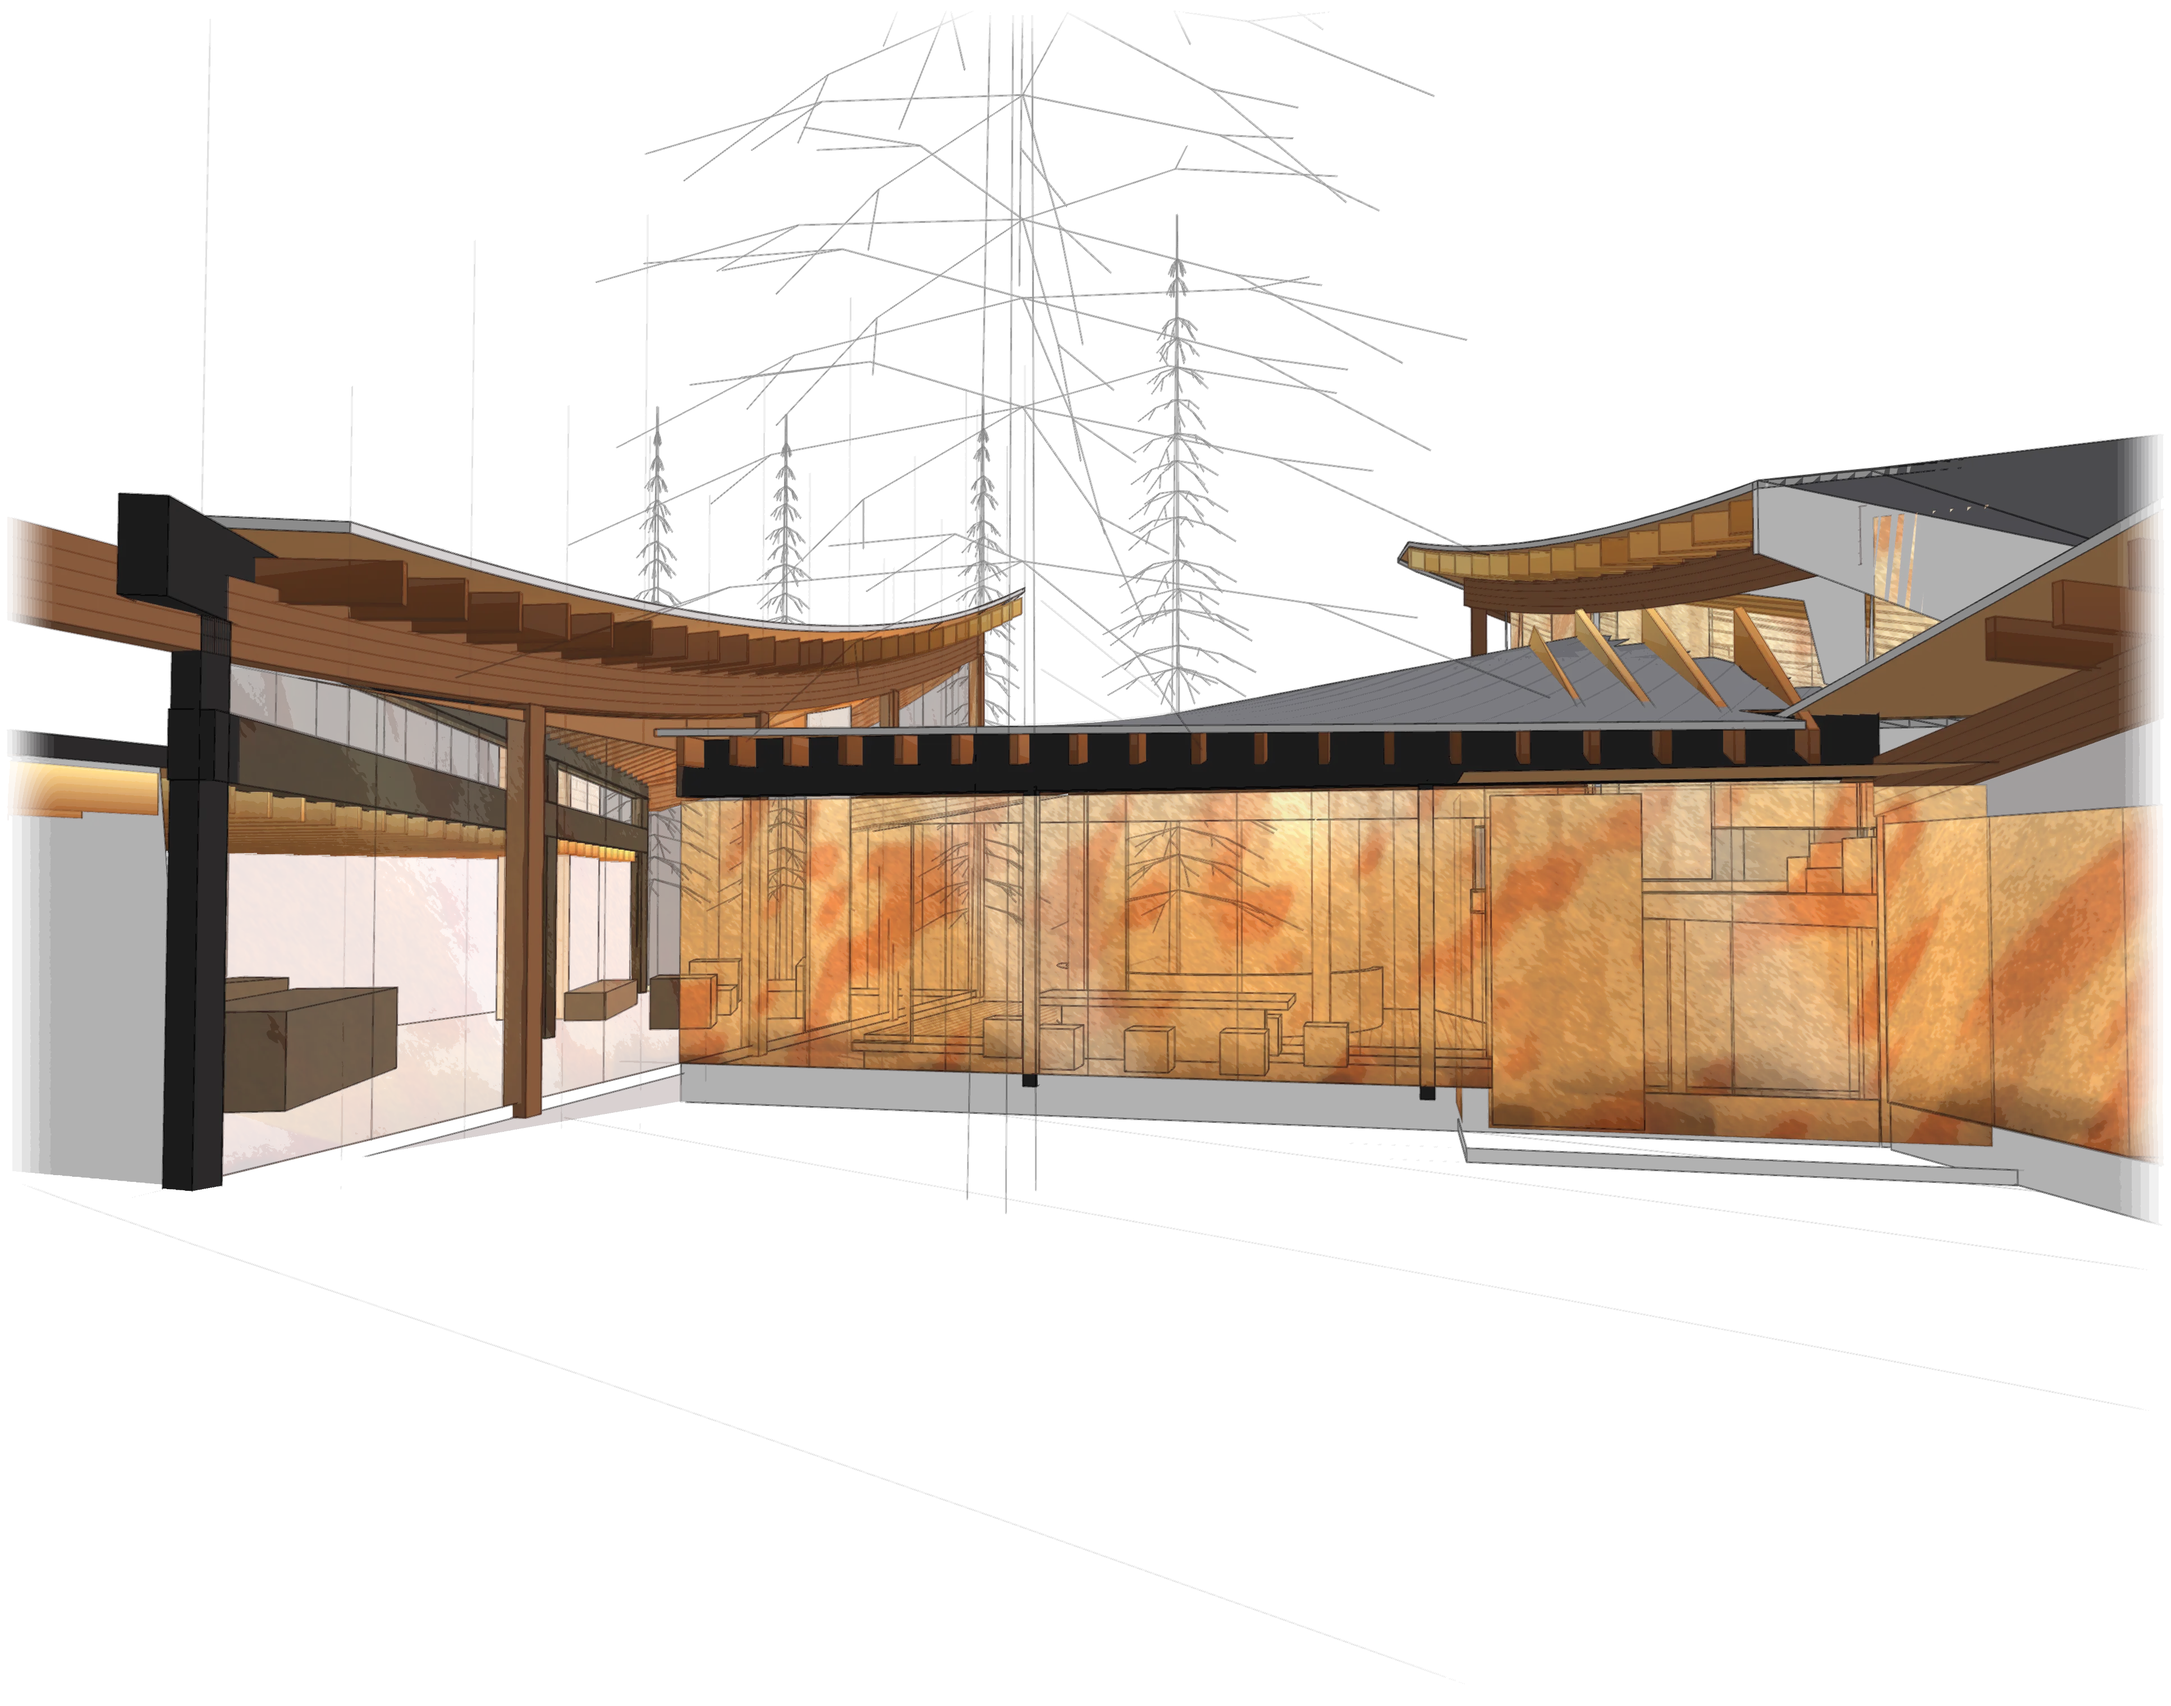
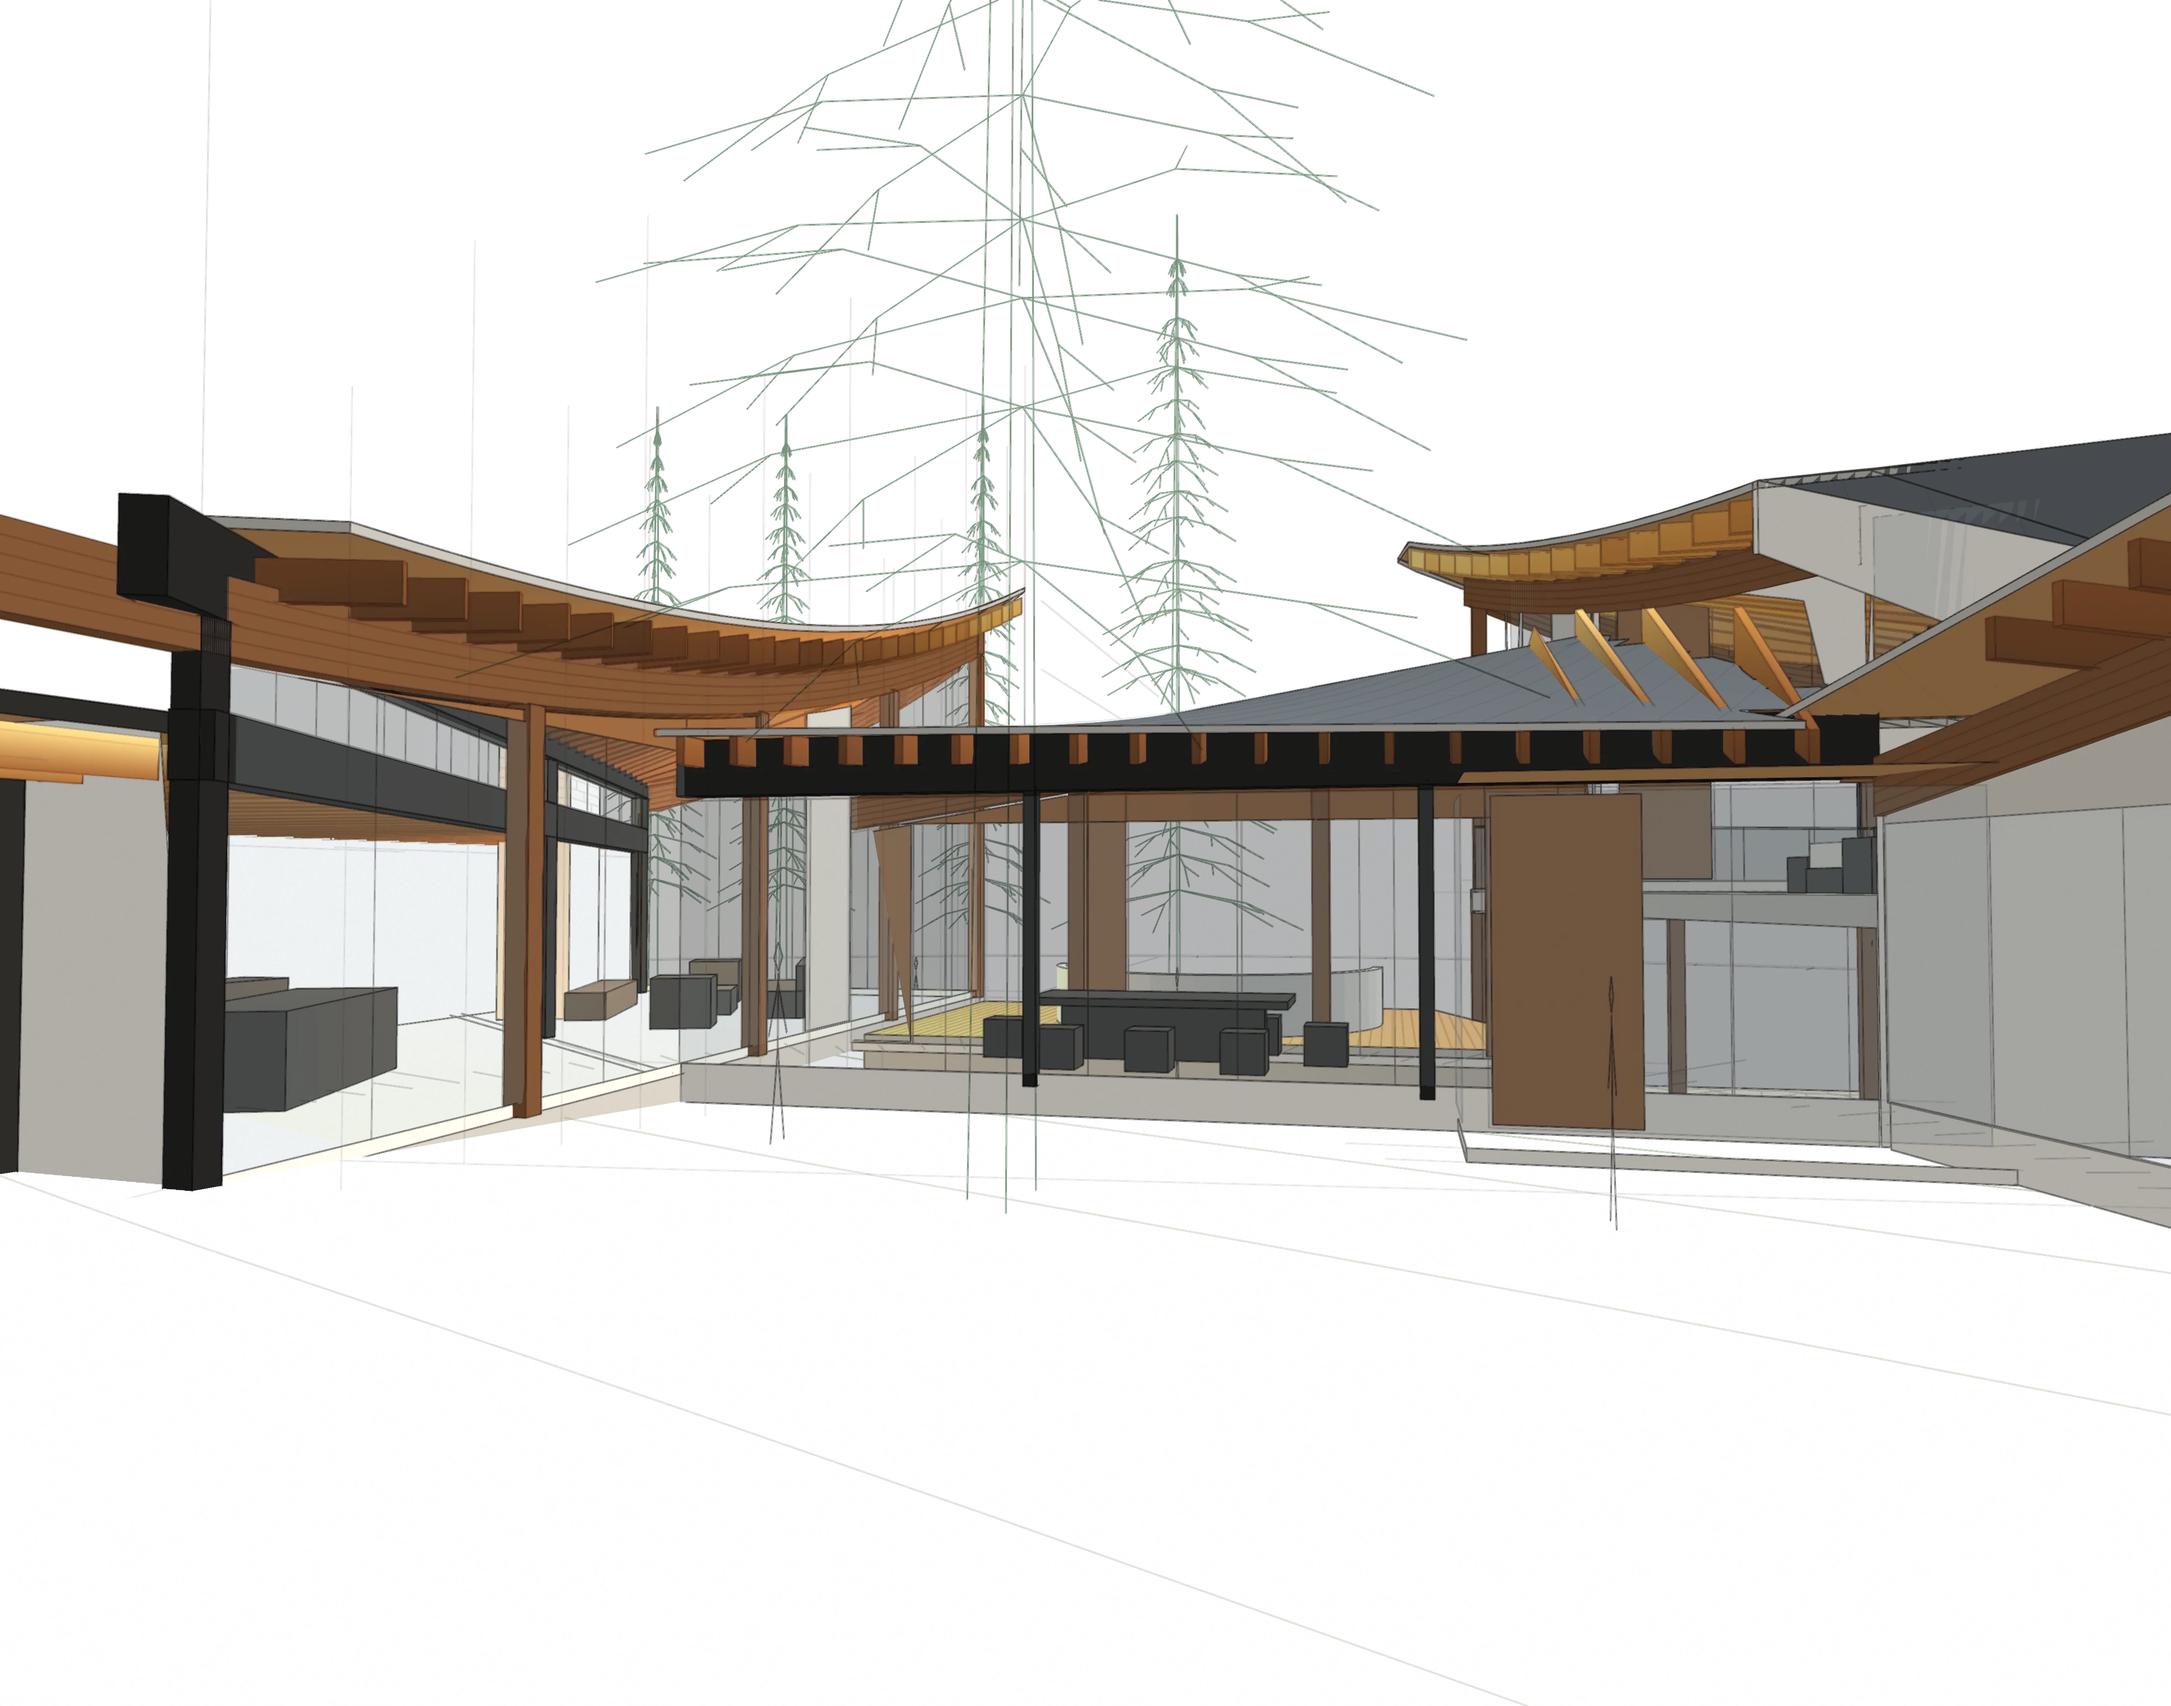
Walsh Living Set: wax play button turns the sheets; A9.1 perspectives re-cut with clear glass
The red wax play button sits dead center: one press, one sheet, back to the cover after the
last. It melts away during the turn, comes back slowly, then rests faint so the drawing reads.
A9.1 stills re-rendered from today's pocket model with clear glass in place of the warm orange,
same cameras, so every hand note stays on its mark.

Claude-Session: https://claude.ai/code/session_018fWHtKfnvee6yxDPBpw8tw

diff --git a/walsh/set/v2.html b/walsh/set/v2.html
@@ -546,6 +546,37 @@ button:focus-visible,a:focus-visible,[tabindex]:focus-visible{outline:1px solid 
   <span class="sep"></span>
   <button id="print">Print</button>
 </nav>
+<button type="button" class="waxplay idle" id="wplay" aria-label="Next sheet">
+  <svg viewBox="-50 -50 100 100" aria-hidden="true">
+    <defs>
+      <radialGradient id="wpA" cx="36%" cy="30%" r="78%"><stop offset="0" stop-color="#d9493a"/><stop offset=".5" stop-color="#ad261d"/><stop offset="1" stop-color="#6c110d"/></radialGradient>
+      <radialGradient id="wpB" cx="62%" cy="68%" r="72%"><stop offset="0" stop-color="#b82d22"/><stop offset="1" stop-color="#8c1b14"/></radialGradient>
+      <filter id="wpF" x="-30%" y="-30%" width="160%" height="160%"><feDropShadow dx="0" dy="2.6" stdDeviation="2.4" flood-color="#3c0a06" flood-opacity=".38"/></filter>
+    </defs>
+    <g id="wpWax"><path id="wpBlob" fill="url(#wpA)" filter="url(#wpF)" d="M44 0 A44 44 0 1 1 43.99 -0.5 Z"/></g>
+    <circle r="30" fill="url(#wpB)"/>
+    <circle r="30" fill="none" stroke="#56100b" stroke-opacity=".6" stroke-width="1.7"/>
+    <circle r="31.6" fill="none" stroke="#f08a76" stroke-opacity=".38" stroke-width=".9"/>
+    <path d="M-8 -13.5 L14.5 0 L-8 13.5 Z" transform="translate(1.1 1.2)" fill="#f19a86" fill-opacity=".5" stroke="#f19a86" stroke-opacity=".5" stroke-width="2.4" stroke-linejoin="round"/>
+    <path d="M-8 -13.5 L14.5 0 L-8 13.5 Z" fill="#6d130e" stroke="#6d130e" stroke-width="2.4" stroke-linejoin="round"/>
+    <ellipse cx="-15" cy="-24" rx="15" ry="5.5" fill="#fff" opacity=".2" transform="rotate(-28 -15 -24)"/>
+  </svg>
+</button>
+<style>
+/* the wax play button (André 10/1/26): dead center, turns to the next sheet; it melts away during the turn, comes back
+   slowly, then rests faint so the drawing reads, and wakes when the pointer moves */
+.waxplay{position:fixed;z-index:60;left:50%;top:50%;width:96px;height:96px;margin:-48px 0 0 -48px;appearance:none;border:0;background:none;padding:0;cursor:pointer;border-radius:50%;-webkit-tap-highlight-color:transparent;touch-action:manipulation;transition:opacity 1.8s ease,transform 1.8s cubic-bezier(.2,.9,.3,1)}
+.waxplay svg{width:100%;height:100%;display:block;overflow:visible;transform-origin:50% 50%}
+.waxplay.gone{opacity:0;transform:scale(.8);pointer-events:none;transition:opacity .35s ease,transform .35s ease}
+.waxplay.rest{opacity:.2;transition:opacity 1.4s ease}
+.waxplay.rest:hover,.waxplay.rest:focus-visible{opacity:1;transition:opacity .25s ease}
+.waxplay.idle svg{animation:wpBreathe 2.8s ease-in-out infinite}
+.waxplay:focus-visible{outline:1.5px solid #1b1a18;outline-offset:4px}
+@keyframes wpBreathe{0%,100%{transform:scale(1)}50%{transform:scale(1.05)}}
+body:has(#drawer.show) .waxplay{display:none}
+@media print{.waxplay{display:none!important}}
+@media (prefers-reduced-motion:reduce){.waxplay.idle svg{animation:none}}
+</style>
 <div class="strip" id="strip">
   <img id="smark" alt="André Mandel" width="236" height="300">
   <div class="sx">
@@ -562,7 +593,7 @@ button:focus-visible,a:focus-visible,[tabindex]:focus-visible{outline:1px solid 
 <script>window.LIVING_SHEETS = []; window.LIVING_OVERLAYS = [];</script>
 <script src="draw/shared.js"></script>
 <script src="sheets/cover-a.js"></script>
-<script src="sheets/cover-b.js"></script>
+<script src="sheets/cover-b.js?v=261001"></script>
 <script src="sheets/reg-a.js"></script>
 <script src="sheets/reg-b.js"></script>
 <script src="sheets/plans-a.js"></script>
@@ -1600,6 +1631,31 @@ document.addEventListener('keydown', e => {
   else if (k === 'ArrowLeft' || k === 'PageUp') { go(cur - 1, -1); e.preventDefault(); }
   else if (k === 'Home') go(0); else if (k === 'End') go(N - 1);
 });
+/* the wax play button: one press, one sheet; after the last sheet it goes back to the cover */
+(function () {
+  const b = $('#wplay'); if (!b) return;
+  let s = 235; const R = () => (s = s * 16807 % 2147483647, (s - 1) / 2147483646), ph = [R() * 6, R() * 6, R() * 6], pts = [];
+  for (let k = 0; k < 72; k++) {
+    const a = k / 72 * Math.PI * 2;
+    const r = 44 * (1 + 0.035 * Math.sin(3 * a + ph[0]) + 0.025 * Math.sin(5 * a + ph[1]) + 0.018 * Math.sin(9 * a + ph[2]) + 0.06 * Math.pow(Math.max(0, Math.cos(a - 2.2)), 18) + 0.045 * Math.pow(Math.max(0, Math.cos(a + 0.7)), 24));
+    pts.push((Math.cos(a) * r).toFixed(2) + ' ' + (Math.sin(a) * r).toFixed(2));
+  }
+  $('#wpBlob').setAttribute('d', 'M' + pts.join(' L') + ' Z');
+  let restT = 0, turn = 0;
+  const rest = () => { clearTimeout(restT); restT = setTimeout(() => { if (!b.classList.contains('gone')) b.classList.add('rest'); }, 3200); };
+  const wake = () => { if (b.classList.contains('gone')) return; b.classList.remove('rest'); rest(); };
+  addEventListener('pointermove', wake, { passive: true });
+  addEventListener('touchstart', wake, { passive: true });
+  b.addEventListener('click', e => {
+    e.stopPropagation();
+    const nx = cur + 1 >= N ? 0 : cur + 1;
+    b.classList.remove('idle', 'rest'); b.classList.add('gone');
+    turn += (Math.random() - 0.5) * 30; $('#wpWax').setAttribute('transform', 'rotate(' + turn.toFixed(1) + ')');
+    go(nx, nx > cur ? 1 : -1);
+    setTimeout(() => { b.classList.remove('gone'); b.setAttribute('aria-label', cur + 1 >= N ? 'Back to the cover' : 'Next sheet'); rest(); }, RM.matches ? 300 : 1500);
+  });
+  rest();
+})();
 $('#prev').onclick = () => go(cur - 1, -1);
 $('#next').onclick = () => go(cur + 1, 1);
 $('#print').onclick = () => window.print();

diff --git a/walsh/set/sheets/cover-b.js b/walsh/set/sheets/cover-b.js
@@ -60,7 +60,7 @@
     id: 'A0.5', group: 'General', title: 'Axonometrics', short: 'Axonometrics', foot: 'Axonometrics',
     scale: 'Not to scale', issued: [4],
     cap: 'The ribbon on its ground from the four corners. One gesture on every roof, the court tree held in the middle.',
-    data: ['Ribbon scheme on the FA grade', 'Tip 6023.0, about 29.4 ft over grade', 'Every roof under 30 ft', 'Cut from the pocket model, 9/30/26'],
+    data: ['Ribbon scheme on the FA grade', 'Tip 6023.0, about 29.4 ft over grade', 'Every roof under 30 ft', 'Cut from the pocket model, 10/1/26'],
     html: ctx => CSS + AXONS.map((a, i) => {
       const [x, y] = AXPOS[i], q = axoXY(a.yaw, a.n.at);
       const nt = inside(q) ? note(ctx, a.n.text, q, a.n.dx, a.n.dy, AXO.w, AXO.h, 400 + i * 420) : '';
@@ -70,11 +70,11 @@
 
   /* ------------------------------------------------------------ A9.1 Perspectives */
   const CAMS = [
-    { src: 'pers-arrival.webp', t: 'Arrival from the west', s: 'Eye level · saved view Entry', eye: [-45, 14.2, 33], at: [4, 15.5, 22], x: 0.65, y: 3.3, w: 19.34, h: 15.2,
+    { src: 'pers-arrival.webp?v=261001', t: 'Arrival from the west', s: 'Eye level · saved view Entry', eye: [-45, 14.2, 33], at: [4, 15.5, 22], x: 0.65, y: 3.3, w: 19.34, h: 15.2,
       notes: [{ text: 'the signature tree, kept', at: P.tree, dx: -2.6, dy: -1.6 }] },
-    { src: 'pers-dining.webp', t: 'Bridge and dining, into the court', s: 'Eye level · saved view Dining', eye: [13.4, 13.1, 37.5], at: [-14.6, 16.5, 22.5], x: 21.37, y: 3.3, w: 8.78, h: 6.9,
+    { src: 'pers-dining.webp?v=261001', t: 'Bridge and dining, into the court', s: 'Eye level · saved view Dining', eye: [13.4, 13.1, 37.5], at: [-14.6, 16.5, 22.5], x: 21.37, y: 3.3, w: 8.78, h: 6.9,
       notes: [{ text: 'dining in the middle\nof the bridge', fx: [0.84, 0.83], dx: -4.9, dy: 0.1 }] },
-    { src: 'pers-tip.webp', t: 'Living room tip', s: 'Eye level · from the east grade', eye: [60, 8.0, 26], at: [33, 21, 8], x: 21.37, y: 11.6, w: 8.78, h: 6.9,
+    { src: 'pers-tip.webp?v=261001', t: 'Living room tip', s: 'Eye level · from the east grade', eye: [60, 8.0, 26], at: [33, 21, 8], x: 21.37, y: 11.6, w: 8.78, h: 6.9,
       notes: [{ text: 'raked glass only\nat the tip', fx: [0.5, 0.45], dx: -1.6, dy: -1.5 }] }
   ];
   /* where each camera stands, on a key plan: the level plans' footprint (from draw/drawings.js) without its section cuts */
@@ -100,7 +100,7 @@
     id: 'A9.1', group: 'Architectural', title: 'Perspectives', short: 'Perspectives', foot: 'Perspectives',
     scale: 'None', issued: [2, 4],
     cap: 'Standing in it: the arrival from the west, dining on the bridge looking into the court, and the living room tip.',
-    data: ['Eye level, about 5 ft 3 in over the floor', 'The model\'s wide lens, 64 degree view', 'Clear glass, warm interiors', 'Cut from the pocket model, 9/30/26'],
+    data: ['Eye level, about 5 ft 3 in over the floor', 'The model\'s wide lens, 64 degree view', 'Clear glass, warm interiors', 'Cut from the pocket model, 10/1/26'],
     html: ctx => CSS + CAMS.map((c, i) => {
       let d = 400 + i * 480;
       const nt = c.notes.map(n => {
